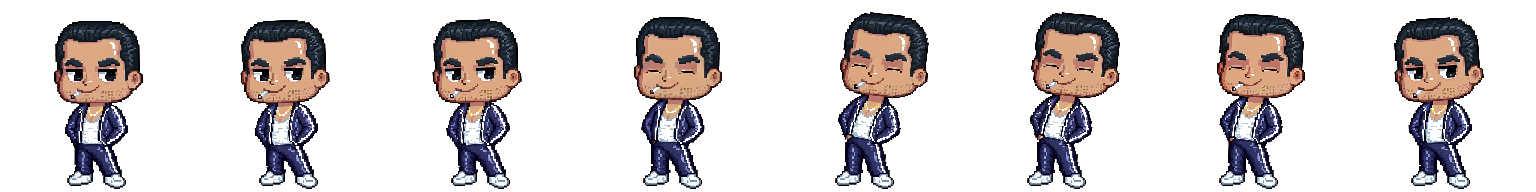
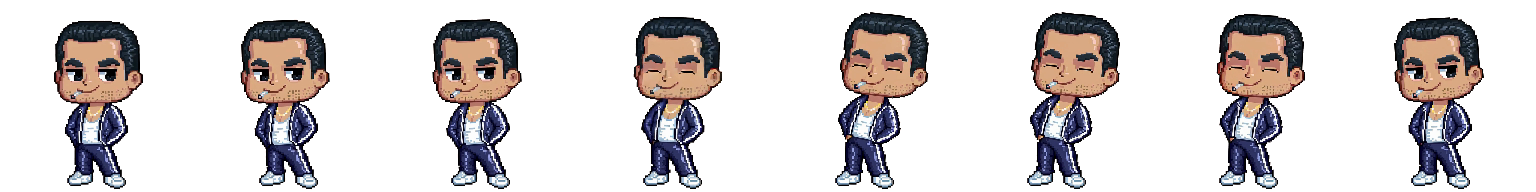
Fix the character sprite: missing eyes, shirt and disappearing on tap
- Background was removed by colour similarity, which also erased the whites
  of the eyes and the t-shirt; now a flood fill runs only from the frame
  edges and stops at the character outline
- The frame step used background-position percentages, which are relative to
  the image-element size difference, so one "frame" jumped the strip far out
  of view; stepping now uses transform, where a percentage is relative to the
  element's own width

diff --git a/client/src/index.css b/client/src/index.css
@@ -40,27 +40,36 @@ body {
 }
 
 /*
- * Персонаж на ранге «Аутсайдер»: 8 кадров в одной ленте.
- * Анимация включается только пока игрок тапает — в покое персонаж замирает
- * на первом кадре.
+ * Персонаж на ранге «Аутсайдер»: лента из 8 кадров.
+ *
+ * Сдвиг делаем через transform, а не background-position: проценты в
+ * background-position считаются от разницы размеров картинки и элемента,
+ * поэтому «шаг в один кадр» там получается не 100%, и лента уезжает за
+ * границы. У transform процент считается от ширины самого элемента —
+ * лента шириной 800% сдвигается ровно на кадр за каждые 12.5%.
  */
-@keyframes don-sprite-cycle {
+@keyframes don-strip-cycle {
   from {
-    background-position-x: 0;
+    transform: translateX(0);
   }
   to {
-    background-position-x: -800%;
+    transform: translateX(-100%);
   }
 }
 
-.don-sprite {
-  background-size: 800% 100%;
+.don-frame {
+  overflow: hidden;
+}
+
+.don-strip {
+  width: 800%;
+  height: 100%;
+  background-size: 100% 100%;
   background-repeat: no-repeat;
-  background-position-x: 0;
   /* Пиксель-арт нельзя сглаживать при растягивании. */
   image-rendering: pixelated;
 }
 
-.don-sprite--active {
-  animation: don-sprite-cycle 0.72s steps(8) infinite;
+.don-strip--active {
+  animation: don-strip-cycle 0.72s steps(8) infinite;
 }

diff --git a/client/src/game/TapCoin.tsx b/client/src/game/TapCoin.tsx
@@ -82,12 +82,12 @@ export function TapCoin({ coinsPerTap, disabled, rankId, onTap }: TapCoinProps) 
         <>
           {/* Мягкое свечение под ногами, чтобы фигура не висела в пустоте */}
           <span className="pointer-events-none absolute inset-x-6 bottom-2 h-6 rounded-[50%] bg-don-gold/20 blur-xl" />
-          <span
-            className={`don-sprite relative block h-[min(16rem,36vh)] w-[min(16rem,36vh)] ${
-              moving ? 'don-sprite--active' : ''
-            }`}
-            style={{ backgroundImage: 'url(/don-outsider.webp)' }}
-          />
+          <span className="don-frame relative block h-[min(16rem,36vh)] w-[min(16rem,36vh)]">
+            <span
+              className={`don-strip block ${moving ? 'don-strip--active' : ''}`}
+              style={{ backgroundImage: 'url(/don-outsider.webp)' }}
+            />
+          </span>
         </>
       ) : (
         <>

diff --git a/scripts/build-sprite.md b/scripts/build-sprite.md
@@ -1,27 +1,55 @@
 # Как собран спрайт персонажа
 
 `client/public/don-outsider.webp` — лента из 8 кадров, вырезанная из
-исходного видео. Видео в проект не кладём: 3,9 МБ грузились бы каждую сессию,
-а спрайт весит 142 КБ.
+исходного видео. Видео в проект не кладём: 3,9 МБ грузились бы каждую
+сессию, а спрайт весит 138 КБ.
 
-Чтобы пересобрать (нужен ffmpeg, например `npx ffmpeg-static`):
+Инструменты нужны только для пересборки, в зависимостях проекта их нет:
 
 ```bash
-ffmpeg -y -i ИСХОДНОЕ_ВИДЕО.mp4 \
-  -vf "trim=0:1,setpts=PTS-STARTPTS,fps=8,format=rgba,colorkey=0xEDE3E1:0.14:0.06,scale=192:192:flags=neighbor,tile=8x1" \
-  -frames:v 1 -c:v libwebp -lossless 1 client/public/don-outsider.webp
+npm i -D ffmpeg-static pngjs
 ```
 
-Что делает каждый кусок:
+## 1. Кадры
 
-- `trim=0:1` — берём первую секунду; дальше движение повторяется;
-- `fps=8` — 8 кадров, этого хватает для заметной анимации при малом весе;
-- `colorkey=0xEDE3E1` — убираем светлый фон исходника, иначе на тёмной теме
-  вокруг персонажа был бы квадрат. Цвет взят пипеткой из угла кадра;
-- `scale=...:flags=neighbor` — масштабирование без сглаживания, иначе
-  пиксель-арт замылится;
-- `tile=8x1` — склейка кадров в одну ленту;
-- `-lossless 1` — для пиксель-арта сжатие с потерями даёт грязь на границах.
+```bash
+npx ffmpeg -y -i ИСХОДНОЕ_ВИДЕО.mp4 \
+  -vf "trim=0:1,setpts=PTS-STARTPTS,fps=8,scale=192:192:flags=neighbor" \
+  -frames:v 8 frames/f%02d.png
+```
 
-Если поменяется число кадров, поправьте `background-size` и `steps()`
-в `.don-sprite` (client/src/index.css) — там зашито 8.
+`flags=neighbor` — масштабирование без сглаживания, иначе пиксель-арт
+замыливается.
+
+## 2. Вырезание фона
+
+```bash
+node scripts/cut-sprite-background.mjs frames strip.png
+```
+
+Скрипт заливает прозрачностью **только связную область от краёв кадра** и
+останавливается на тёмном контуре персонажа.
+
+Так сделано не случайно: первая версия убирала все пиксели, похожие на цвет
+фона, и вместе с фоном исчезли белки глаз и белая майка — они оказались
+достаточно близки к нему по цвету.
+
+## 3. Сборка в WebP
+
+```bash
+npx ffmpeg -y -i strip.png -c:v libwebp -lossless 1 client/public/don-outsider.webp
+```
+
+Сжатие без потерь: у пиксель-арта на границах иначе появляется грязь.
+
+## Если меняется число кадров
+
+Поправьте в `client/src/index.css`: ширину `.don-strip` (`800%` = 8 кадров)
+и число шагов в `.don-strip--active` (`steps(8)`).
+
+Сдвиг сделан через `transform`, а не `background-position`. В
+`background-position` проценты считаются от разницы размеров картинки и
+элемента, поэтому «шаг в один кадр» там не равен 100%, и лента уезжает за
+границы — персонаж пропадает при тапе. У `transform` процент считается от
+ширины самого элемента, и лента шириной 800% сдвигается ровно на кадр
+за каждые 12,5%.
